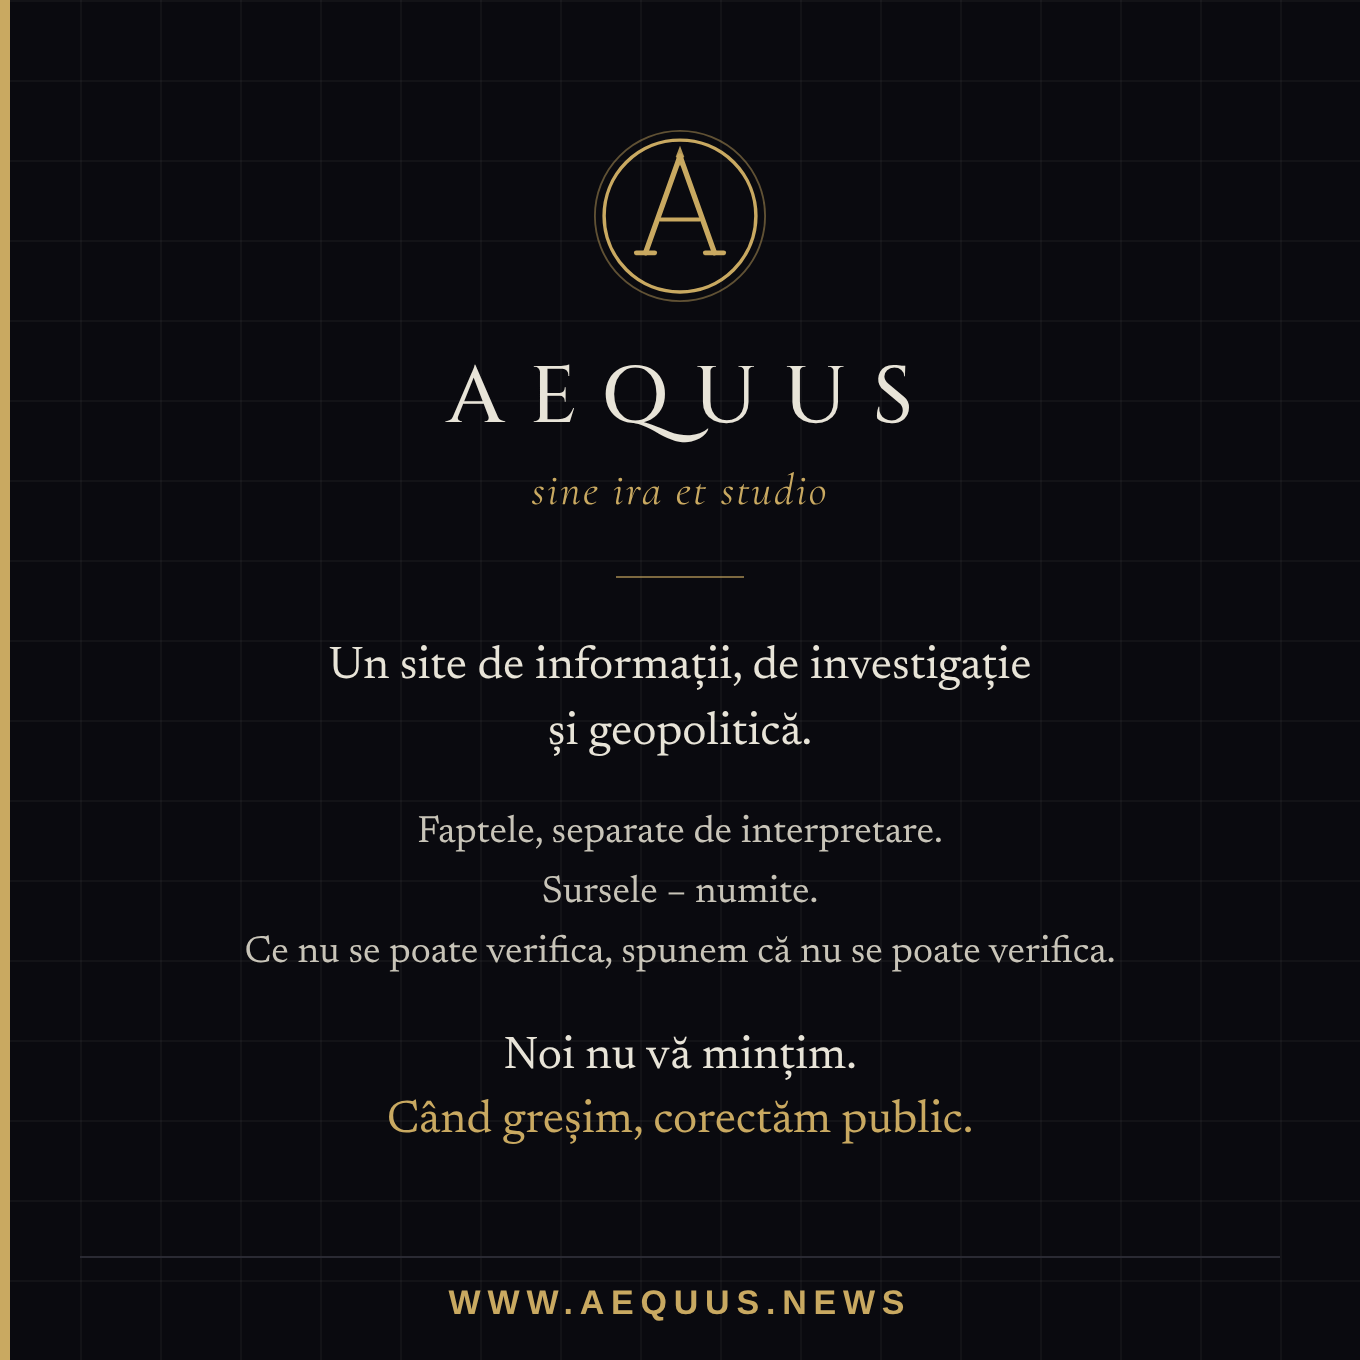
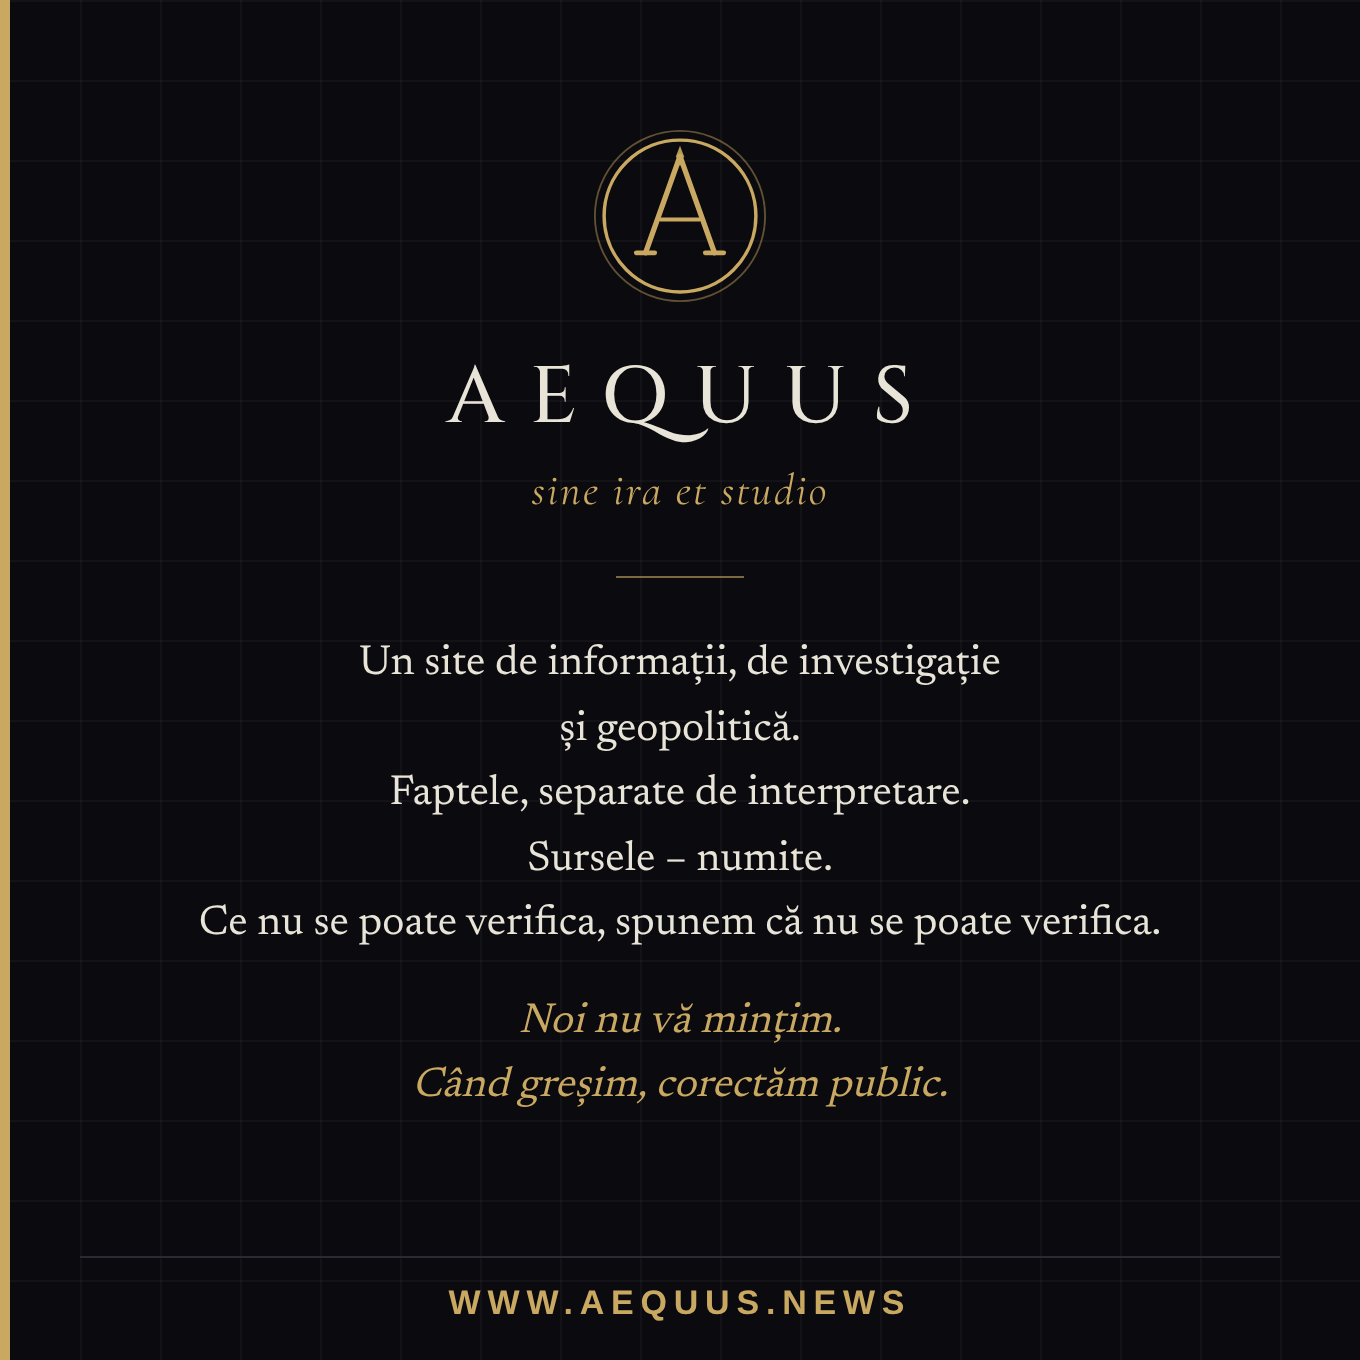
Banda și cardul de prezentare: textul la aceeași mărime; ultimele două propoziții cursive, aurii
Claude-Session: https://claude.ai/code/session_01WkZQEGajb7gjKgKWC8nmvu

Changed region(s): [[0.1544, 0.4632, 0.8338, 0.7103], [0.2779, 0.7412, 0.7103, 0.8338]]

diff --git a/index.html b/index.html
@@ -34,11 +34,12 @@
     .cov-band .cb-motto { font-family: var(--font-tagline); font-style: italic; font-size: 1.2rem; color: #c9a961; letter-spacing: 0.05em; }
     .cov-band .cb-rule { width: 64px; height: 1px; background: #c9a961; opacity: .6; margin: 1.2rem auto; }
     .cov-band p { margin: 0 auto; max-width: 720px; font-family: var(--font-display); }
-    .cov-band .cb-lead { font-size: 1.35rem; line-height: 1.4; }
-    .cov-band .cb-list { font-size: 1.05rem; line-height: 1.6; color: #c8c4b8; margin-top: 0.6rem; }
+    .cov-band .cb-lead { font-size: 1.2rem; line-height: 1.6; }
+    .cov-band .cb-list { font-size: 1.2rem; line-height: 1.6; color: #e8e4d8; margin-top: 0; }
     .cov-band .cb-list span { display: block; }
-    .cov-band .cb-close { font-size: 1.3rem; margin-top: 0.8rem; }
-    .cov-band .cb-close em { font-style: normal; color: #c9a961; }
+    .cov-band .cb-close { font-size: 1.2rem; line-height: 1.6; margin-top: 0.7rem; font-style: italic; color: #c9a961; }
+    .cov-band .cb-close span { display: block; }
+
     @keyframes cbFade { from { opacity: 0; transform: translateY(8px); } to { opacity: 1; transform: none; } }
     @keyframes cbDraw { from { stroke-dashoffset: 420; } to { stroke-dashoffset: 0; } }
     @keyframes cbSpread { from { opacity: 0; letter-spacing: .05em; } to { opacity: 1; letter-spacing: .32em; } }
@@ -53,10 +54,10 @@
     @media (max-width: 560px) {
       .cov-band { padding: 1.8rem 1rem 1.7rem; margin-top: 1rem; }
       .cov-band .cb-word { font-size: 1.6rem; }
-      .cov-band .cb-lead { font-size: 1.15rem; }
-      .cov-band .cb-list { font-size: 0.95rem; }
+      .cov-band .cb-lead { font-size: 1.05rem; }
+      .cov-band .cb-list { font-size: 1.05rem; }
       .cov-band .cb-list span { display: block; }
-      .cov-band .cb-close { font-size: 1.1rem; }
+      .cov-band .cb-close { font-size: 1.05rem; }
     }
     .cov-intro { max-width: 760px; padding: 2.2rem 0 1.6rem; border-bottom: 1px solid var(--line); }
     .cov-intro .motto { font-family: var(--font-tagline); font-style: italic; font-size: 1.15rem; color: var(--gold-dark); letter-spacing: 0.04em; }
@@ -197,7 +198,7 @@
       <div class="cb-rule"></div>
       <p class="cb-lead">Un site de informații, de investigație <span style="white-space:nowrap">și geopolitică.</span></p>
       <p class="cb-list"><span>Faptele, separate de interpretare.</span> <span>Sursele – numite.</span> <span>Ce nu se poate verifica, spunem că nu se poate verifica.</span></p>
-      <p class="cb-close">Noi nu vă mințim. <em>Când greșim, corectăm public.</em></p>
+      <p class="cb-close"><span>Noi nu vă mințim.</span> <span>Când greșim, corectăm public.</span></p>
     </section>
 
     <section class="cov-top">
